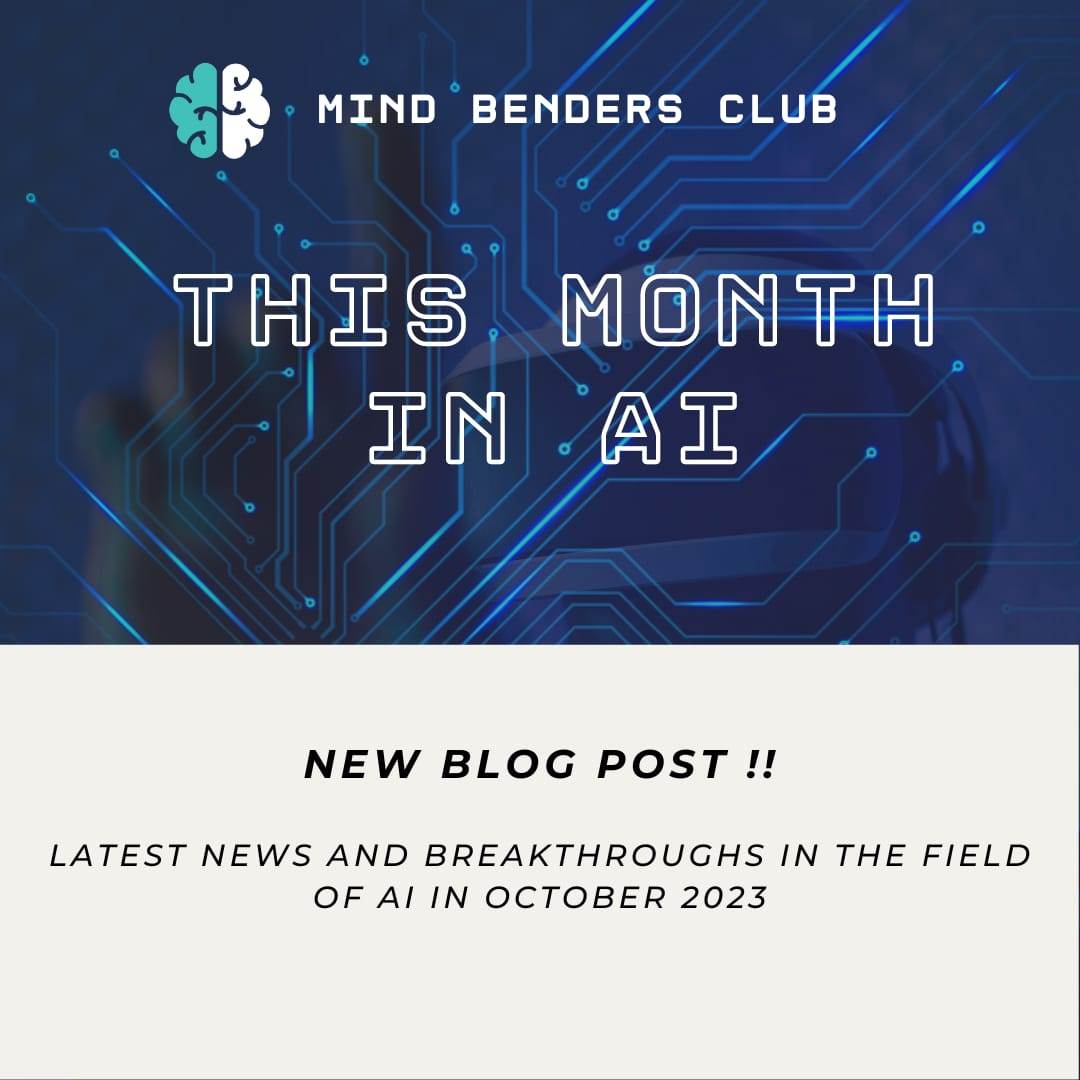
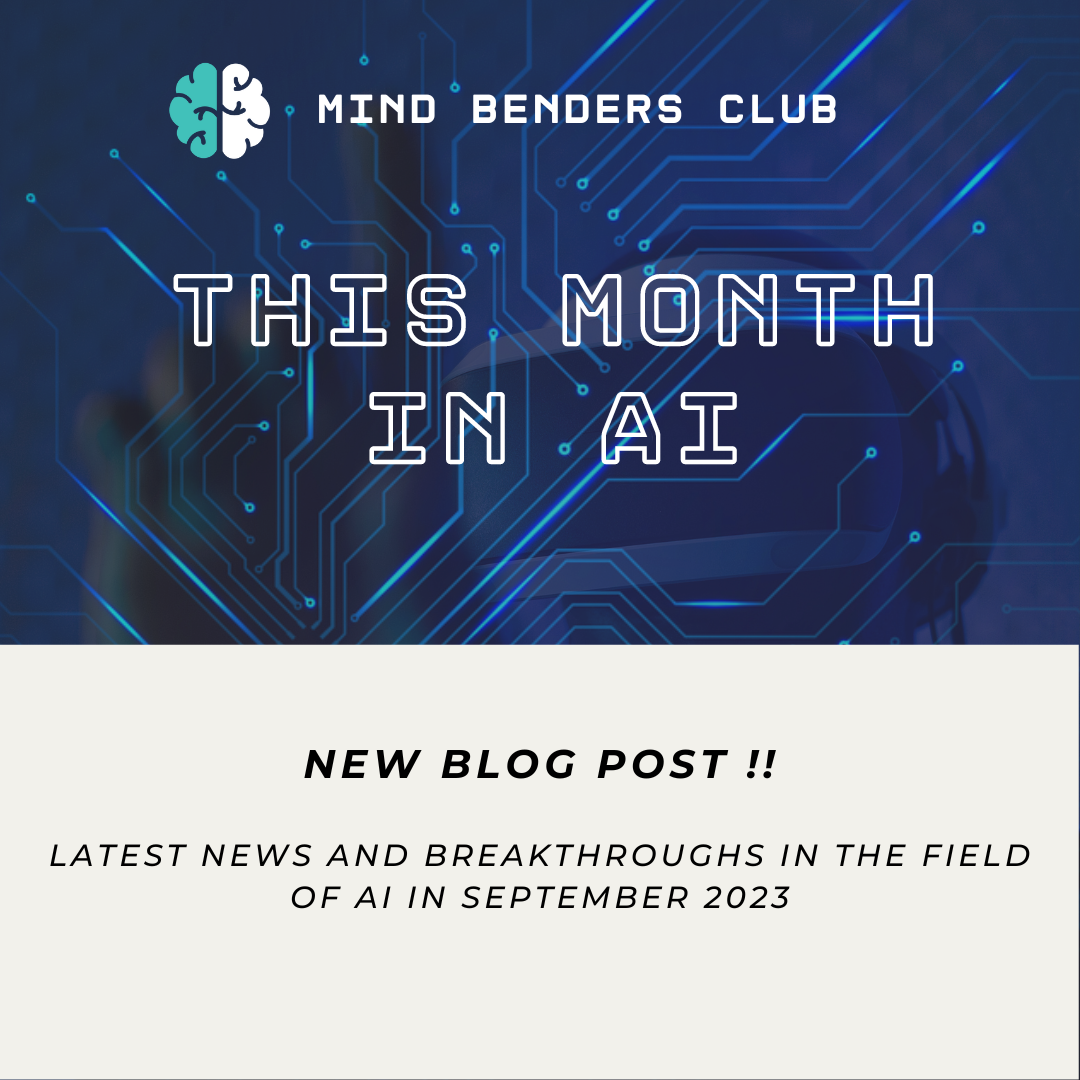
[FIX] Changed September blog Poster and fixed Image extension

Changed region(s): [[0.275, 0.7944, 0.7333, 0.8556]]

diff --git a/post/blogs/2023/october_2023/index.md b/post/blogs/2023/october_2023/index.md
@@ -30,7 +30,7 @@ But that's not all. ChatGPT now possesses the ability to see, hear, and speak. W
 
 Microsoft is making waves in the AI hardware arena with the introduction of its own AI chip called Athena. This chip is set to reduce the company's reliance on NVIDIA GPUs and compete head-to-head with NVIDIA's H100 GPU for AI acceleration in data centers. This move showcases Microsoft's commitment to achieving self-sufficiency in AI hardware and driving innovation in the AI space.
 
-![Microsoft AI Athena](ai_athena.png)
+![Microsoft AI Athena](ai_athena.jpg)
 
 ## 3. Sturgeon: AI in Real-Time Brain Tumor Diagnosis
 
@@ -51,13 +51,14 @@ In a related move, OpenAI is contemplating the development of its own AI chips f
 
 Stability AI introduces Stable LM 3B, a high-performing language model designed specifically for smart devices. Boasting 3 billion parameters, this model outperforms state-of-the-art 3B models while significantly reducing operating costs and power consumption. The result is an AI model that enables a broader range of applications on smart devices, PCs, and edge computing, paving the way for enhanced user experiences and improved efficiency.
 
-![Stable LM 3B Logo](stable_ai.png)
+![Stable LM 3B Logo](stable_ai.jpg)
 
 
 ## 6. Fuyu-8B: A Multimodal Marvel
 
 Adept has unveiled Fuyu-8B, an impressive open-source vision-language model engineered to comprehend and respond to questions about images, charts, diagrams, and documents. This multimodal AI architecture promises to unlock new horizons in AI-driven image and document analysis, offering a plethora of applications in fields such as healthcare, education, and more.
 
+![Adept Logo](adept.jpg)
 
 In conclusion, October 2023 has been a momentous month for AI enthusiasts. With advancements in AI hardware, language models, multimodal AI, and real-time medical diagnosis, the landscape of artificial intelligence is evolving at an incredible pace. These developments not only reflect the cutting-edge capabilities of AI but also point to the potential for AI to transform industries and improve the quality of our lives. The future of AI is undoubtedly exciting, and it promises to bring more innovations and discoveries in the months and years to come.
 
